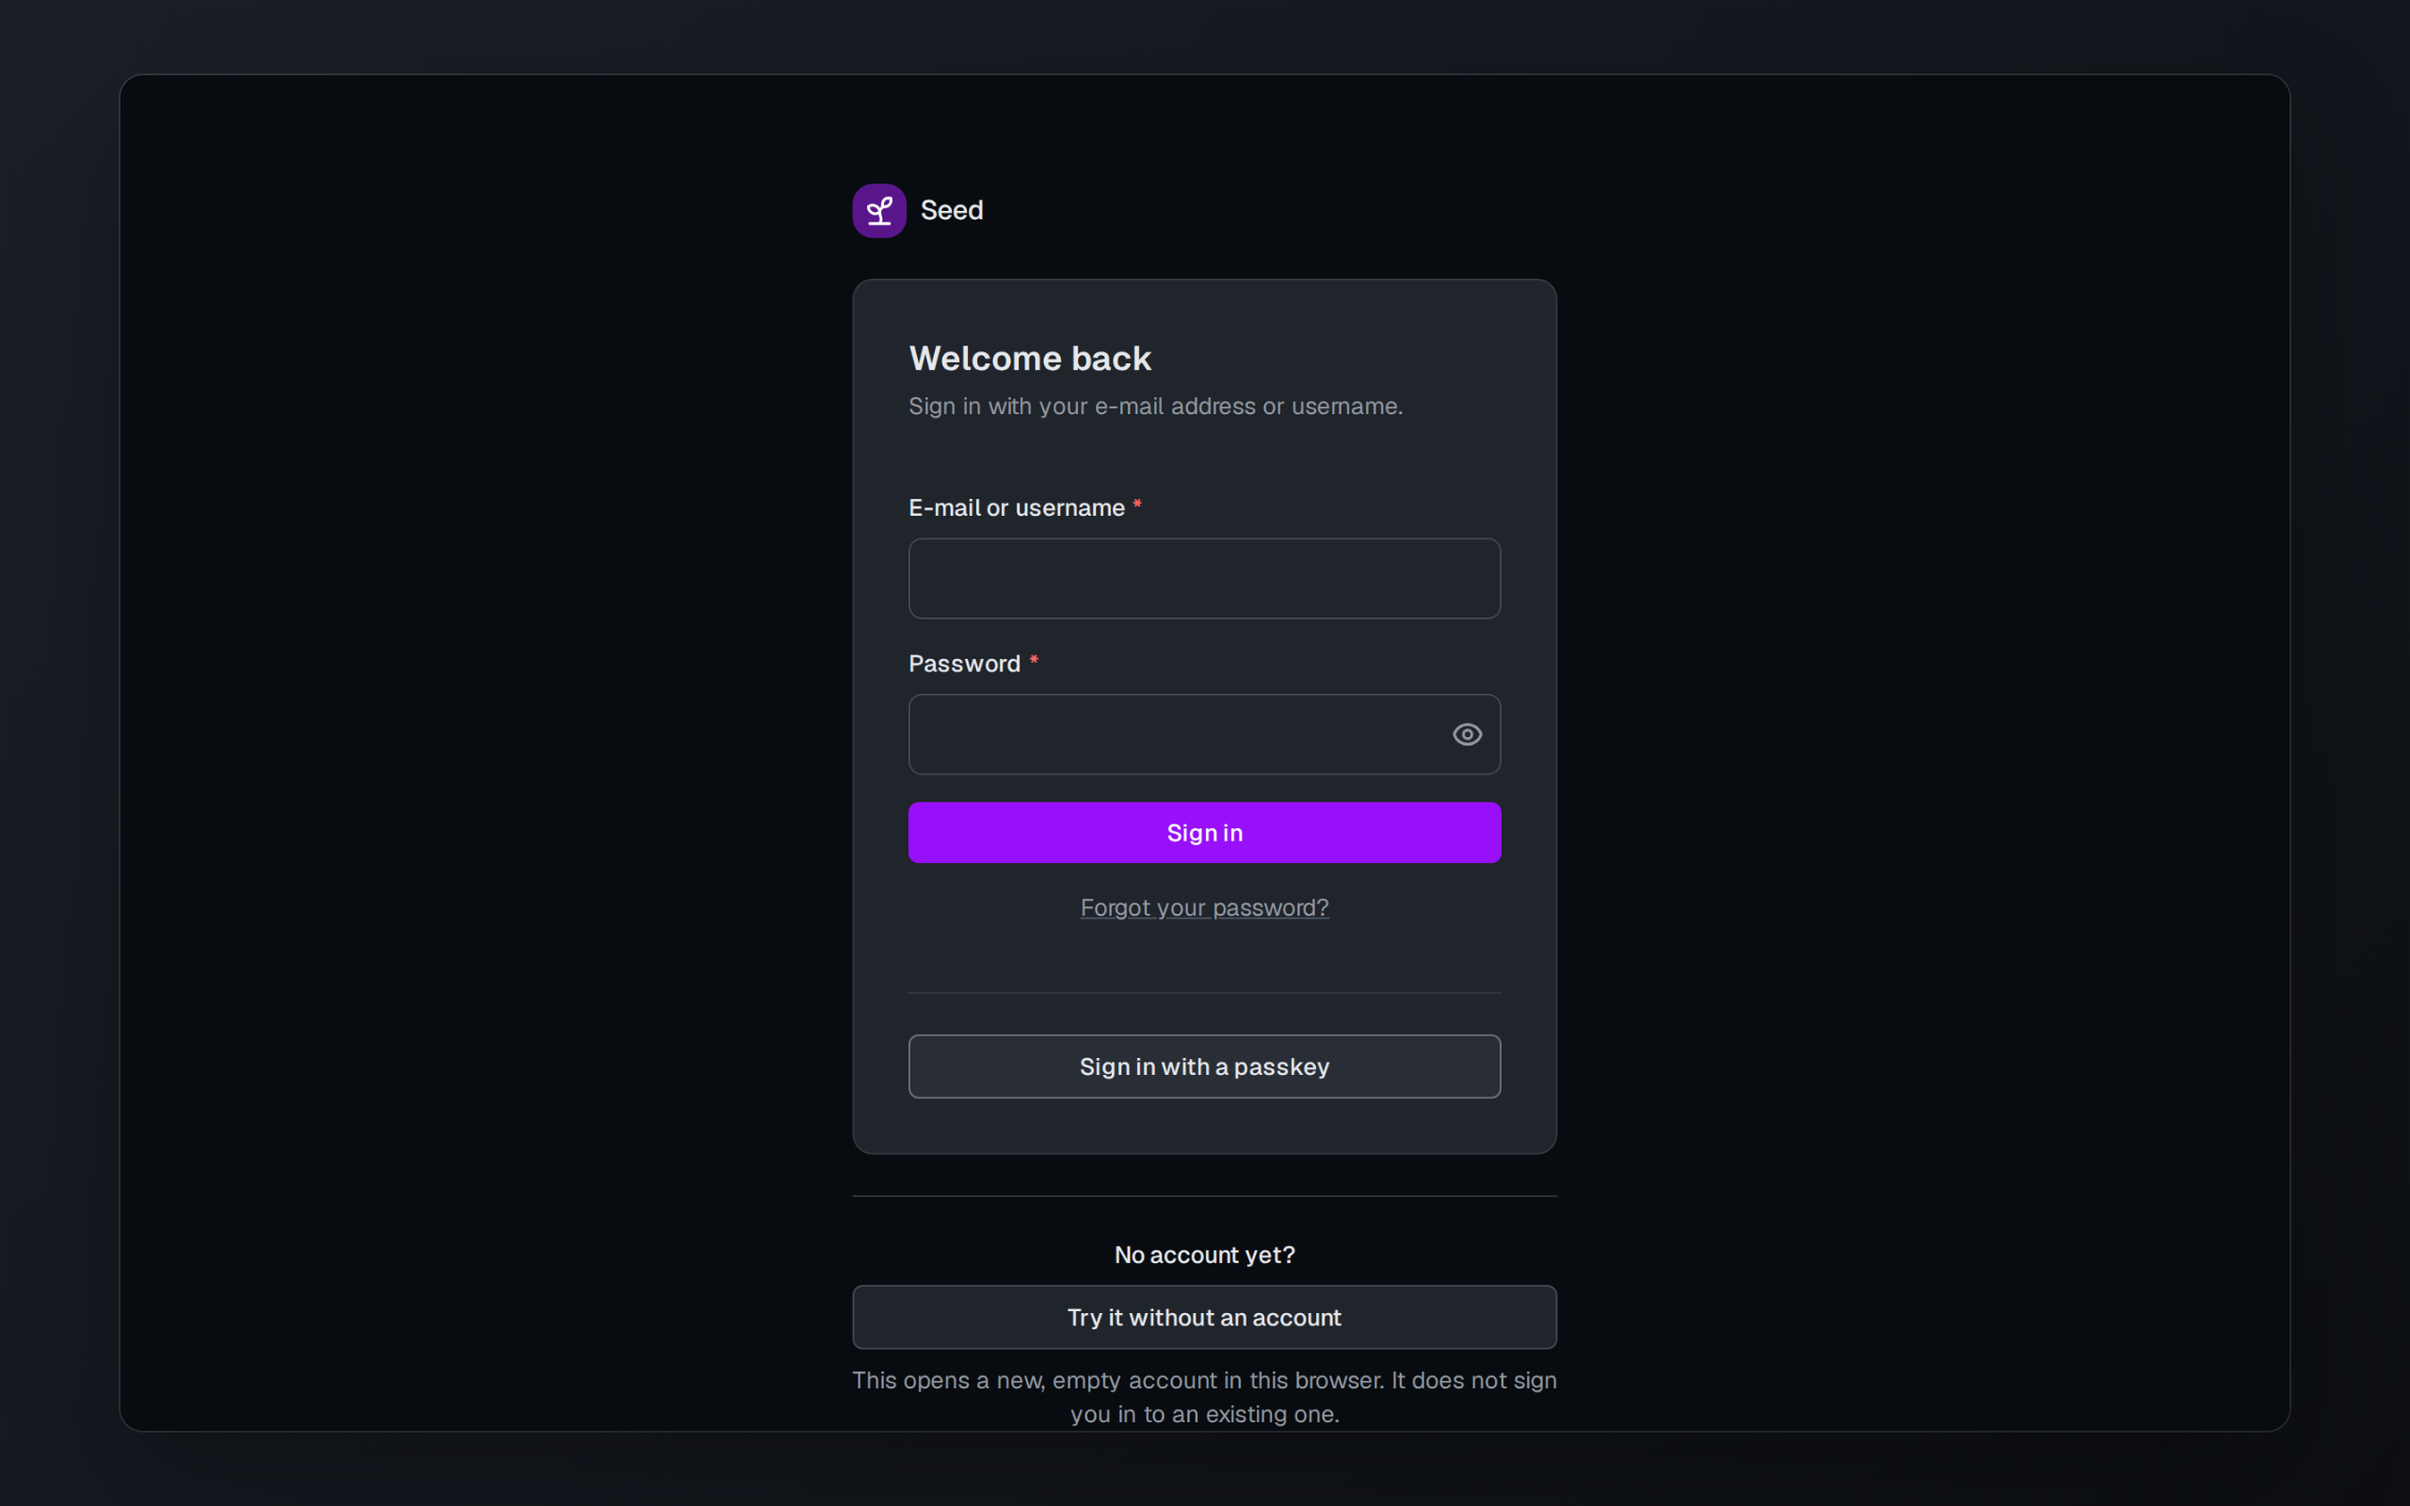
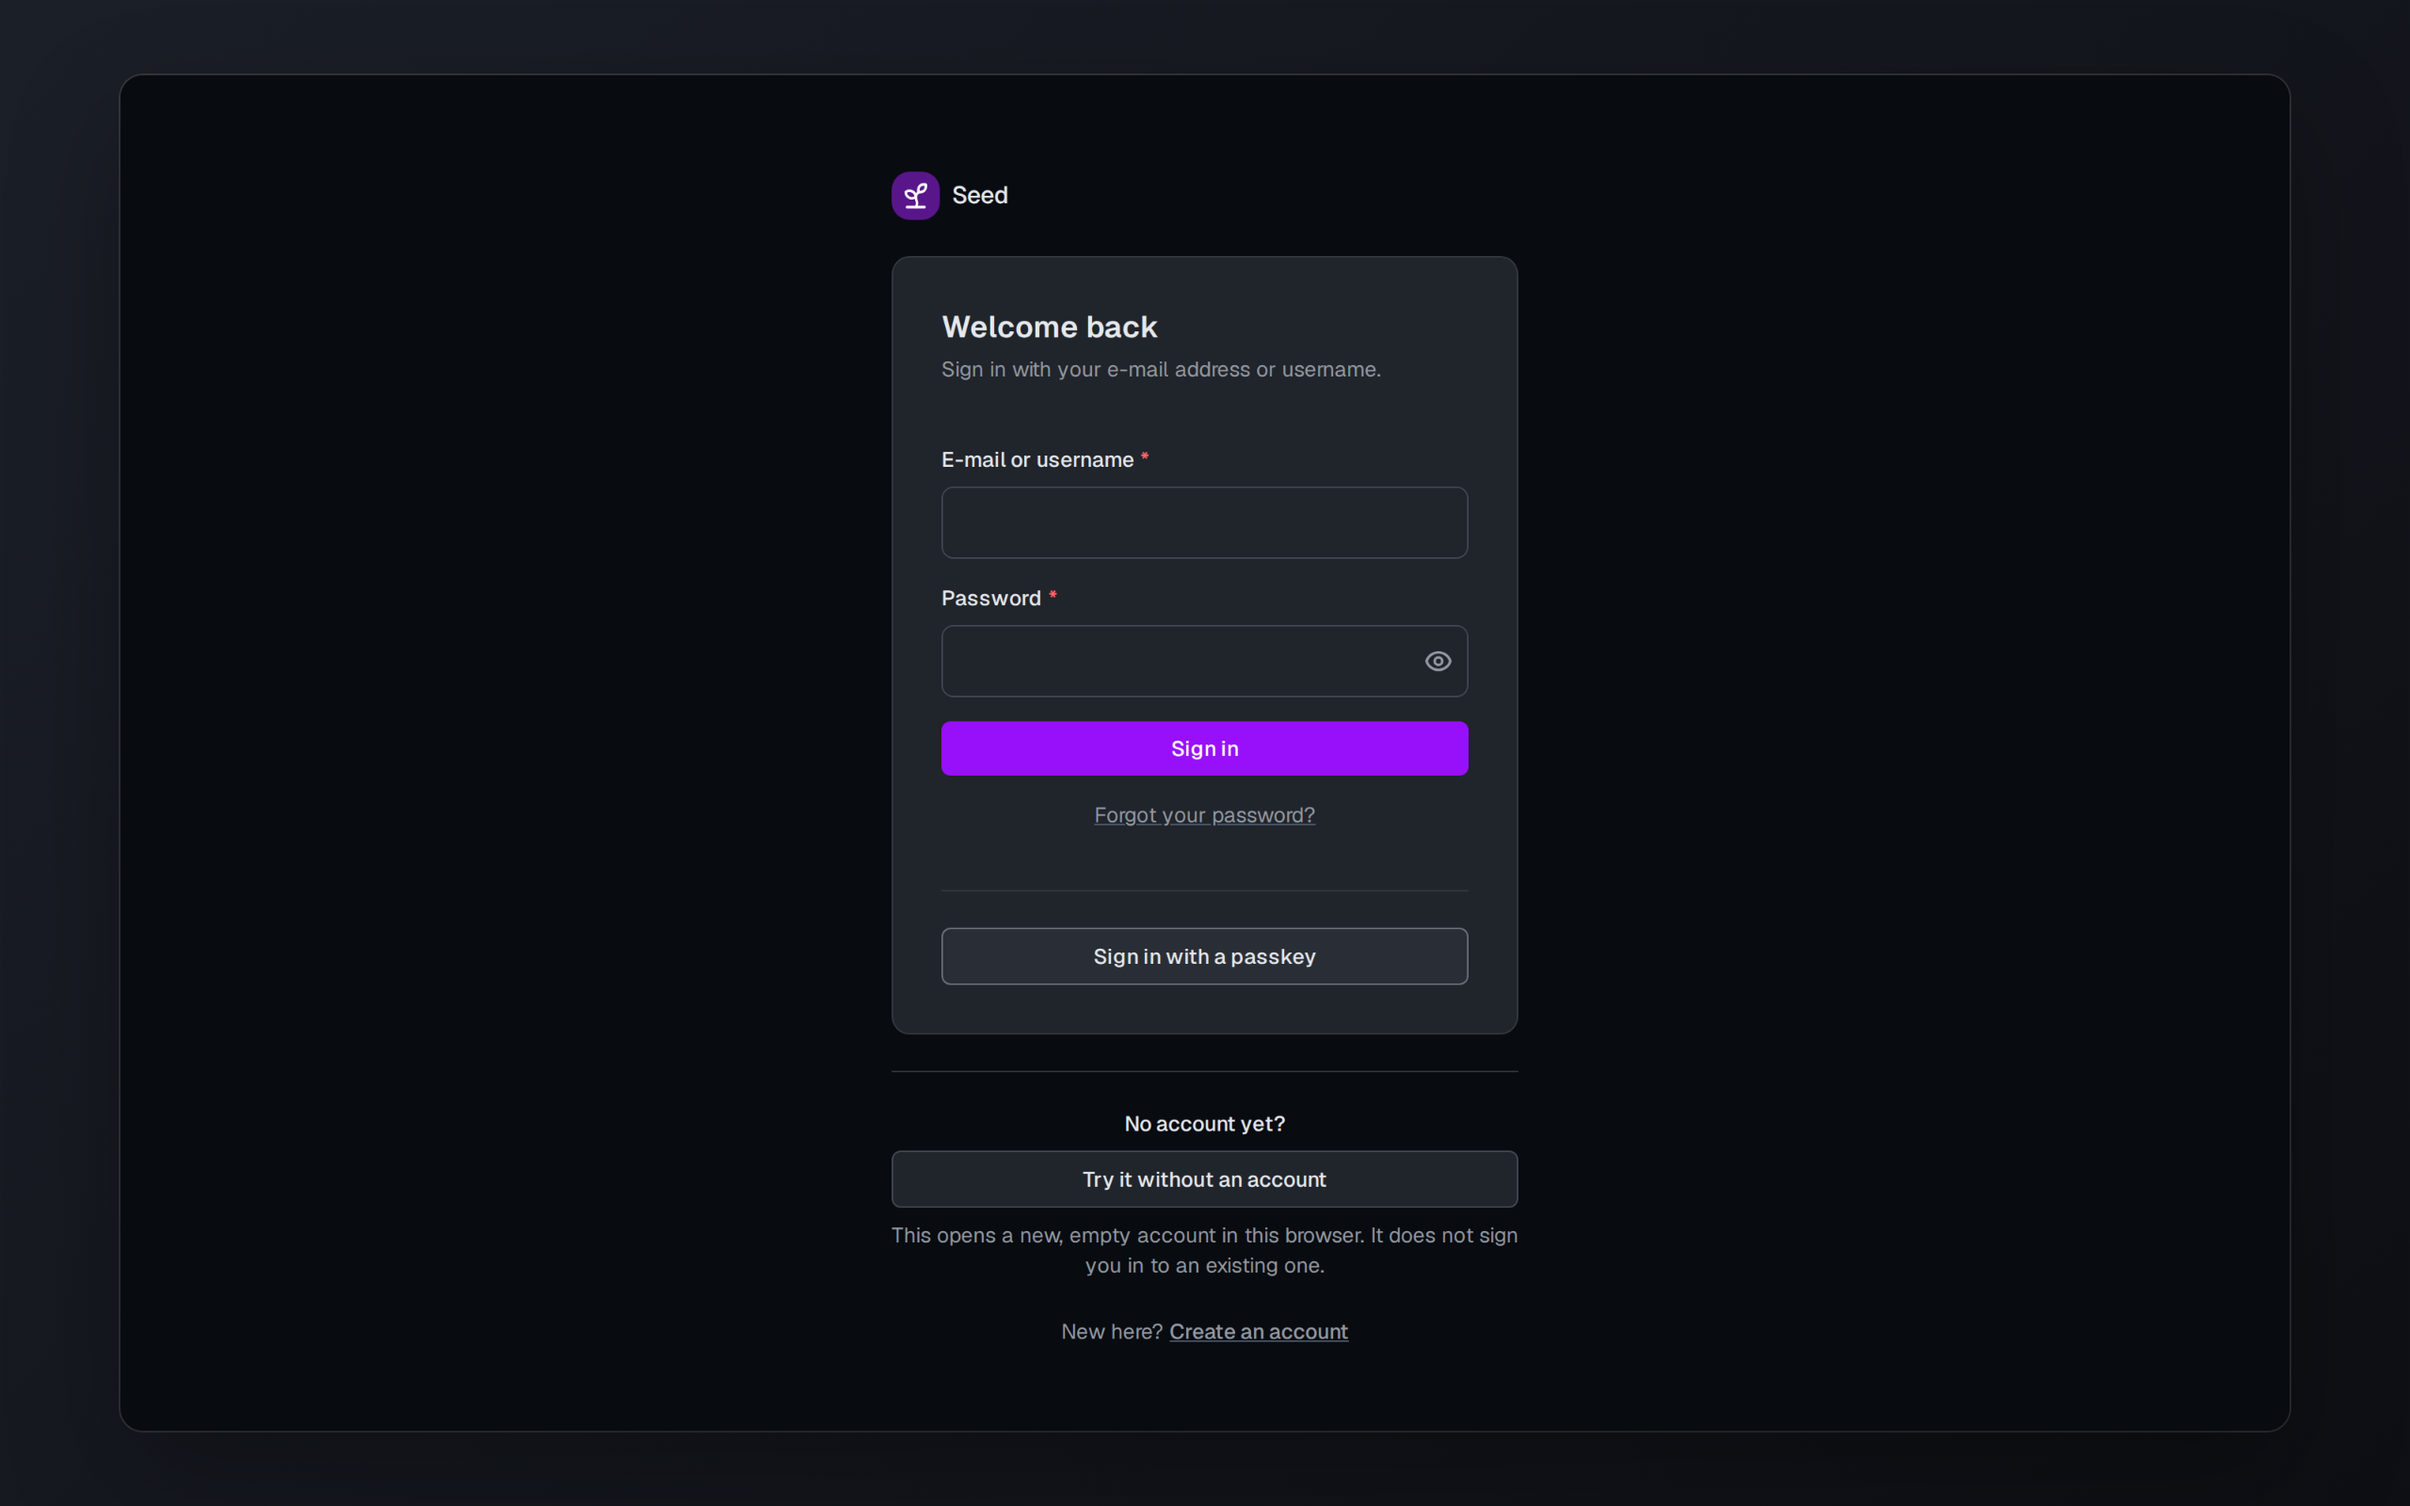
docs: show the whole sign-in page in the README stills
The sign-in still is shot on a 1440x900 viewport so the guest offer and the sign-up link fit, and the GIF's clock starts with the page so its trim cuts the first load.

Changed region(s): [[0.3438, 0.0938, 0.6562, 0.9688]]

diff --git a/docs/screenshots/record.ts b/docs/screenshots/record.ts
@@ -22,6 +22,8 @@ import { clickLike, typeLike } from "./human-mouse.ts"
 const BASE_URL = Deno.env.get("BASE_URL") ?? "http://app.localhost"
 const OUT_DIR = new URL(".", import.meta.url).pathname
 const VIEWPORT = { width: 1280, height: 800 }
+/** The sign-in still's viewport: 16:10 like {@link VIEWPORT}, tall enough for the whole page. */
+const SIGN_IN_VIEWPORT = { width: 1440, height: 900 }
 const THEMES = ["light", "dark"] as const
 type Theme = typeof THEMES[number]
 
@@ -77,10 +79,15 @@ async function captureStills(browser: Browser, theme: Theme): Promise<Record<str
   const context = await newContext(browser, theme, 2)
   try {
     const page = await context.newPage()
+    // The sign-in page is taller than the 800 px viewport, so it is shot on a larger one of the
+    // same 16:10 shape: the whole card, the guest offer and the sign-up link, with room below.
+    await page.setViewportSize(SIGN_IN_VIEWPORT)
     await page.goto("/sign-in")
     await page.getByRole("heading", { level: 1, name: "Welcome back" }).waitFor()
+    await page.getByText("Create an account", { exact: true }).waitFor()
     await page.waitForTimeout(500)
     const signIn = await page.screenshot()
+    await page.setViewportSize(VIEWPORT)
     await page.locator("[data-e2e=auth-form-login]").fill(DEMO.email)
     await page.locator("[data-e2e=auth-form-password]").fill(DEMO.password)
     await page.locator("[data-e2e=auth-form-submit]").click()
@@ -266,8 +273,10 @@ async function recordFlow(browser: Browser, dir: string): Promise<Recording> {
   try {
     await context.addInitScript(`window.__demoPointerStart = ${JSON.stringify(pointer)}`)
     await context.addInitScript({ path: new URL("pointer.js", import.meta.url).pathname })
-    page = await context.newPage()
+    // The video starts when the page is made, so the clock does too: the trim then cuts the
+    // whole first load, "Loading…" included.
     const started = Date.now()
+    page = await context.newPage()
     await page.goto("/sign-up")
     await page.getByRole("heading", { level: 1, name: "Create your account" }).waitFor()
     await page.mouse.move(pointer.x, pointer.y)

diff --git a/README.md b/README.md
@@ -101,7 +101,7 @@ The rest of the local stack (monitoring, migrations, demo data, resetting the da
 
 | Light                                                                                                                                                                                                                                                                                                                                                                                                  | Dark                                                                                                                                                                                                                                                                                                                                                                                                 |
 | ------------------------------------------------------------------------------------------------------------------------------------------------------------------------------------------------------------------------------------------------------------------------------------------------------------------------------------------------------------------------------------------------------ | ---------------------------------------------------------------------------------------------------------------------------------------------------------------------------------------------------------------------------------------------------------------------------------------------------------------------------------------------------------------------------------------------------- |
-| <img src="docs/screenshots/sign-in-light.png" alt="The sign-in page in the light theme: a card titled Welcome back with an e-mail or username field, a password field, a Sign in button, a link for a forgotten password and a Sign in with a passkey button, and below the card a Try it without an account button that opens a new account in the browser.">                                         | <img src="docs/screenshots/sign-in-dark.png" alt="The sign-in page in the dark theme: a card titled Welcome back with an e-mail or username field, a password field, a Sign in button, a link for a forgotten password and a Sign in with a passkey button, and below the card a Try it without an account button that opens a new account in the browser.">                                         |
+| <img src="docs/screenshots/sign-in-light.png" alt="The sign-in page in the light theme: a card titled Welcome back with an e-mail or username field, a password field, a Sign in button, a link for a forgotten password and a Sign in with a passkey button, and below the card a Try it without an account button that opens a new account in the browser and a link to create an account.">         | <img src="docs/screenshots/sign-in-dark.png" alt="The sign-in page in the dark theme: a card titled Welcome back with an e-mail or username field, a password field, a Sign in button, a link for a forgotten password and a Sign in with a passkey button, and below the card a Try it without an account button that opens a new account in the browser and a link to create an account.">         |
 | <img src="docs/screenshots/profile-light.png" alt="The profile page in the light theme for the demo user Alex Rivera: a narrow icon rail on the left with the Personal group, search, Overview, Notes, Activity, Groups, notifications and the account, the profile's sections from Account to API tokens and Delete account, and the Account section with the name and the verified e-mail address."> | <img src="docs/screenshots/profile-dark.png" alt="The profile page in the dark theme for the demo user Alex Rivera: a narrow icon rail on the left with the Personal group, search, Overview, Notes, Activity, Groups, notifications and the account, the profile's sections from Account to API tokens and Delete account, and the Account section with the name and the verified e-mail address."> |
 
 The admin panel, on its own host, in a 58-second video on the website:
